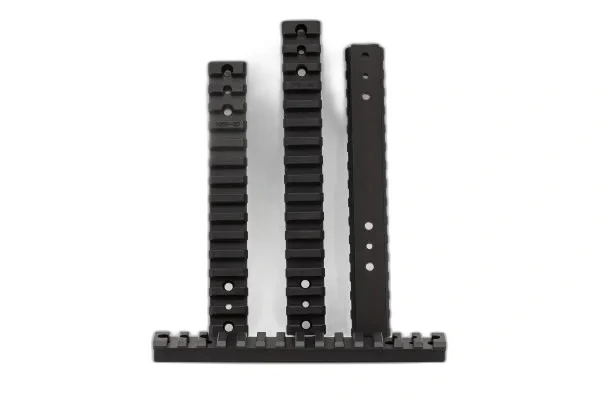
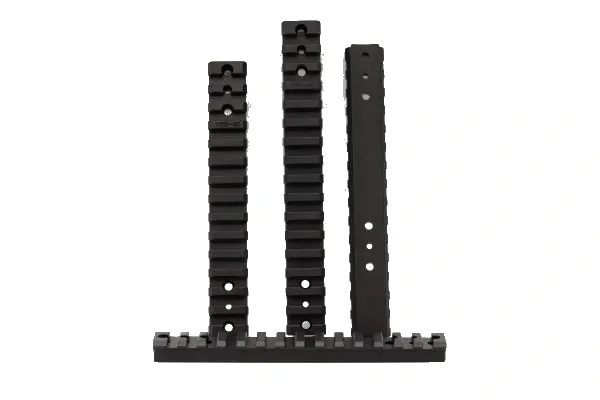
Clean residual shadow on Borden rail images
The two rail source files (used across 8 different Borden rail
products) still had a soft gray under-shadow after the first rembg
pass. Reran with alpha matting + a 180-brightness threshold pass to
flatten any residual gray to pure #FFFFFF. Subjects are all-black so
the threshold approach is safe.

diff --git a/clean_rails.py b/clean_rails.py
@@ -1,0 +1,67 @@
+#!/usr/bin/env python3
+"""Aggressive cleanup for the Borden rail images.
+Strategy: rembg with alpha matting → composite on white → threshold residual
+near-whites to pure #FFFFFF. The subject is essentially black so this is safe."""
+import os
+import shutil
+from PIL import Image
+from rembg import remove, new_session
+
+SHOP_DIR = "assets/images/shop"
+BACKUP_DIR = "assets/images/shop_originals"
+
+TARGETS = [
+    "Borden-BR-Rails.webp",
+    "Borden-Rem700_Rail.webp",
+]
+
+session = new_session("u2net")
+
+
+def clean(src, dst):
+    img = Image.open(src).convert("RGBA")
+    # Aggressive rembg: alpha matting with tight thresholds
+    out = remove(
+        img,
+        session=session,
+        alpha_matting=True,
+        alpha_matting_foreground_threshold=240,
+        alpha_matting_background_threshold=10,
+        alpha_matting_erode_size=10,
+    )
+    # Composite onto pure white
+    white = Image.new("RGB", out.size, (255, 255, 255))
+    if out.mode == "RGBA":
+        white.paste(out, mask=out.split()[3])
+    else:
+        white.paste(out.convert("RGB"))
+
+    # Post-threshold: any near-white pixel → pure white. Subject is black
+    # so this only cleans residual halos / soft shadows.
+    px = white.load()
+    w, h = white.size
+    for y in range(h):
+        for x in range(w):
+            r, g, b = px[x, y]
+            if (r + g + b) / 3 > 180:
+                px[x, y] = (255, 255, 255)
+
+    ext = os.path.splitext(dst)[1].lower()
+    if ext in (".jpg", ".jpeg"):
+        white.save(dst, "JPEG", quality=92)
+    elif ext == ".webp":
+        white.save(dst, "WEBP", quality=92)
+    elif ext == ".png":
+        white.save(dst, "PNG")
+    else:
+        white.save(dst)
+
+
+for name in TARGETS:
+    src = os.path.join(BACKUP_DIR, name)
+    dst = os.path.join(SHOP_DIR, name)
+    if not os.path.exists(src):
+        print(f"  ✗ missing original: {name}")
+        continue
+    clean(src, dst)
+    print(f"  ✓ {name:40s} cleaned")

diff --git a/threshold_white.py b/threshold_white.py
@@ -1,0 +1,48 @@
+#!/usr/bin/env python3
+"""Threshold-based background cleanup for dark-subject-on-light-bg photos.
+Use this for the rail images that rembg couldn't fully clean — pure threshold
+gives a clean #FFFFFF background while preserving the all-black subject."""
+import os
+import shutil
+from PIL import Image
+
+SHOP_DIR = "assets/images/shop"
+BACKUP_DIR = "assets/images/shop_originals"
+
+# Images to process (start from backed-up originals, write to shop/)
+TARGETS = [
+    "Borden-BR-Rails.webp",
+    "Borden-Rem700_Rail.webp",
+]
+
+THRESHOLD = 200  # mean(R,G,B) > THRESHOLD → snap to pure white
+
+
+def threshold_to_white(src, dst, threshold=THRESHOLD):
+    img = Image.open(src).convert("RGB")
+    px = img.load()
+    w, h = img.size
+    for y in range(h):
+        for x in range(w):
+            r, g, b = px[x, y]
+            if (r + g + b) / 3 > threshold:
+                px[x, y] = (255, 255, 255)
+    ext = os.path.splitext(dst)[1].lower()
+    if ext in (".jpg", ".jpeg"):
+        img.save(dst, "JPEG", quality=92)
+    elif ext == ".png":
+        img.save(dst, "PNG")
+    elif ext == ".webp":
+        img.save(dst, "WEBP", quality=92)
+    else:
+        img.save(dst)
+
+
+for name in TARGETS:
+    src = os.path.join(BACKUP_DIR, name)
+    dst = os.path.join(SHOP_DIR, name)
+    if not os.path.exists(src):
+        print(f"  ✗ {name:35s} missing original — skipping")
+        continue
+    threshold_to_white(src, dst)
+    print(f"  ✓ {name:35s} threshold-cleaned → white")
